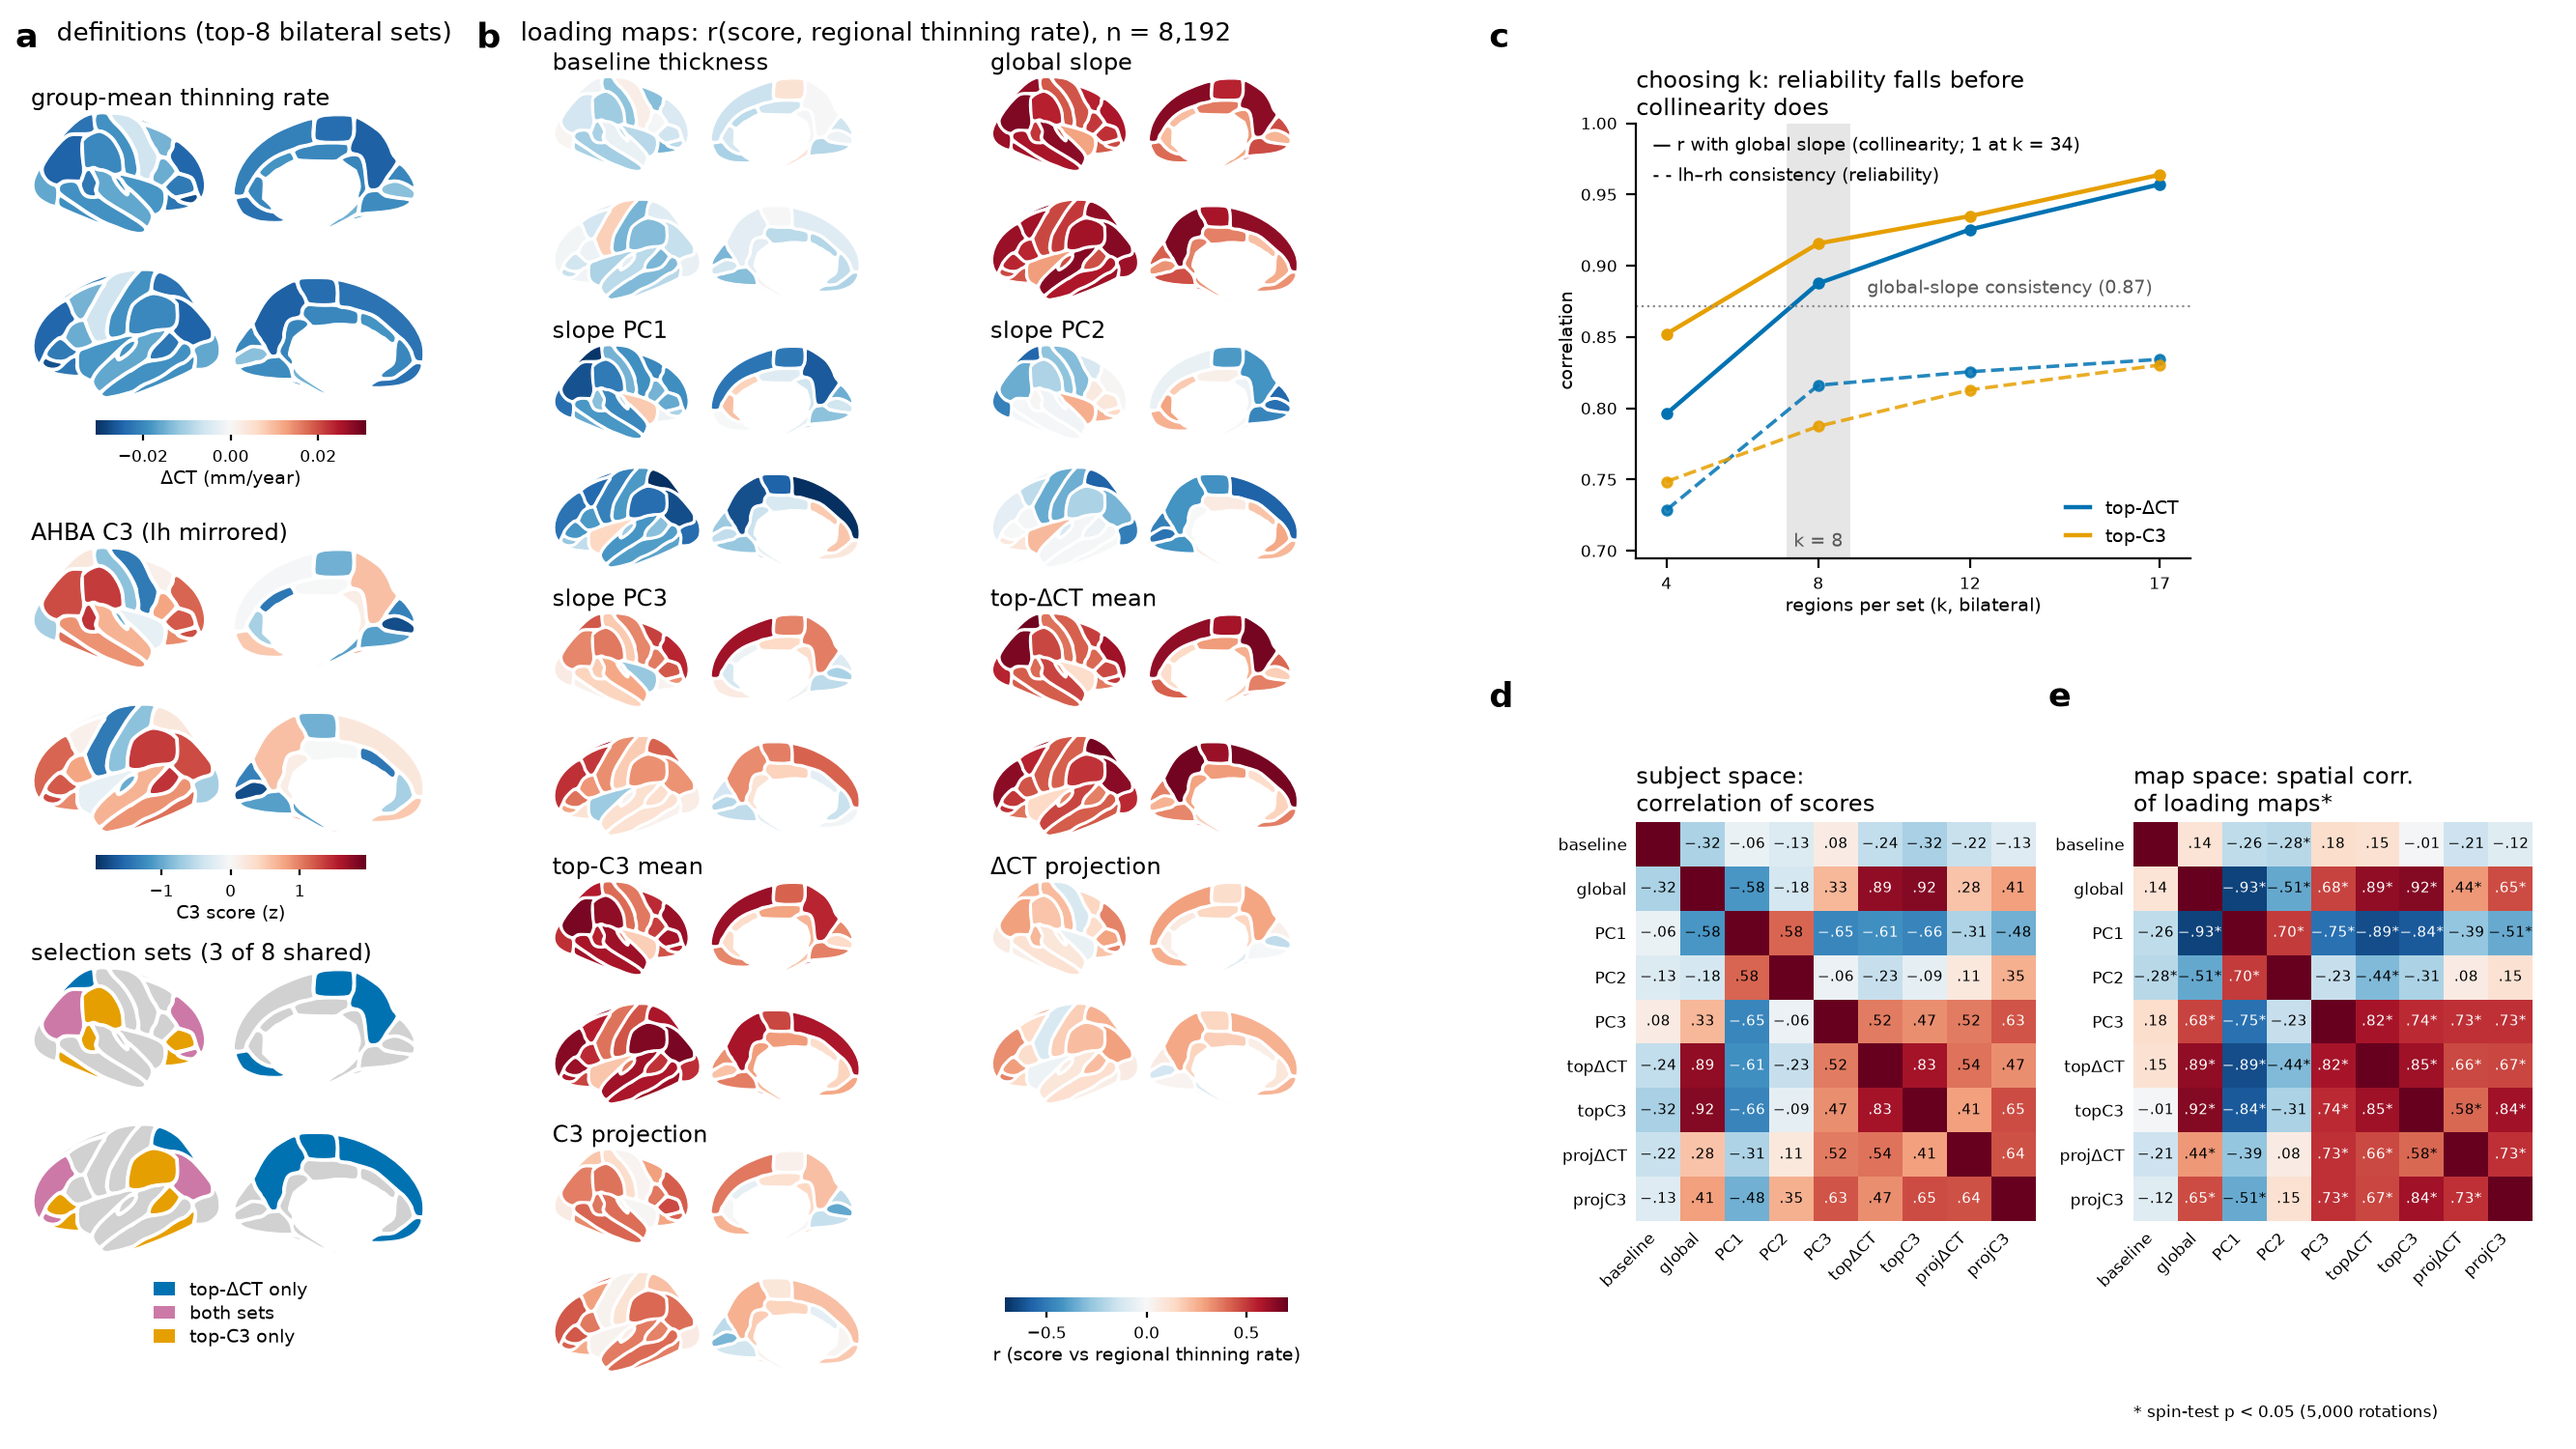
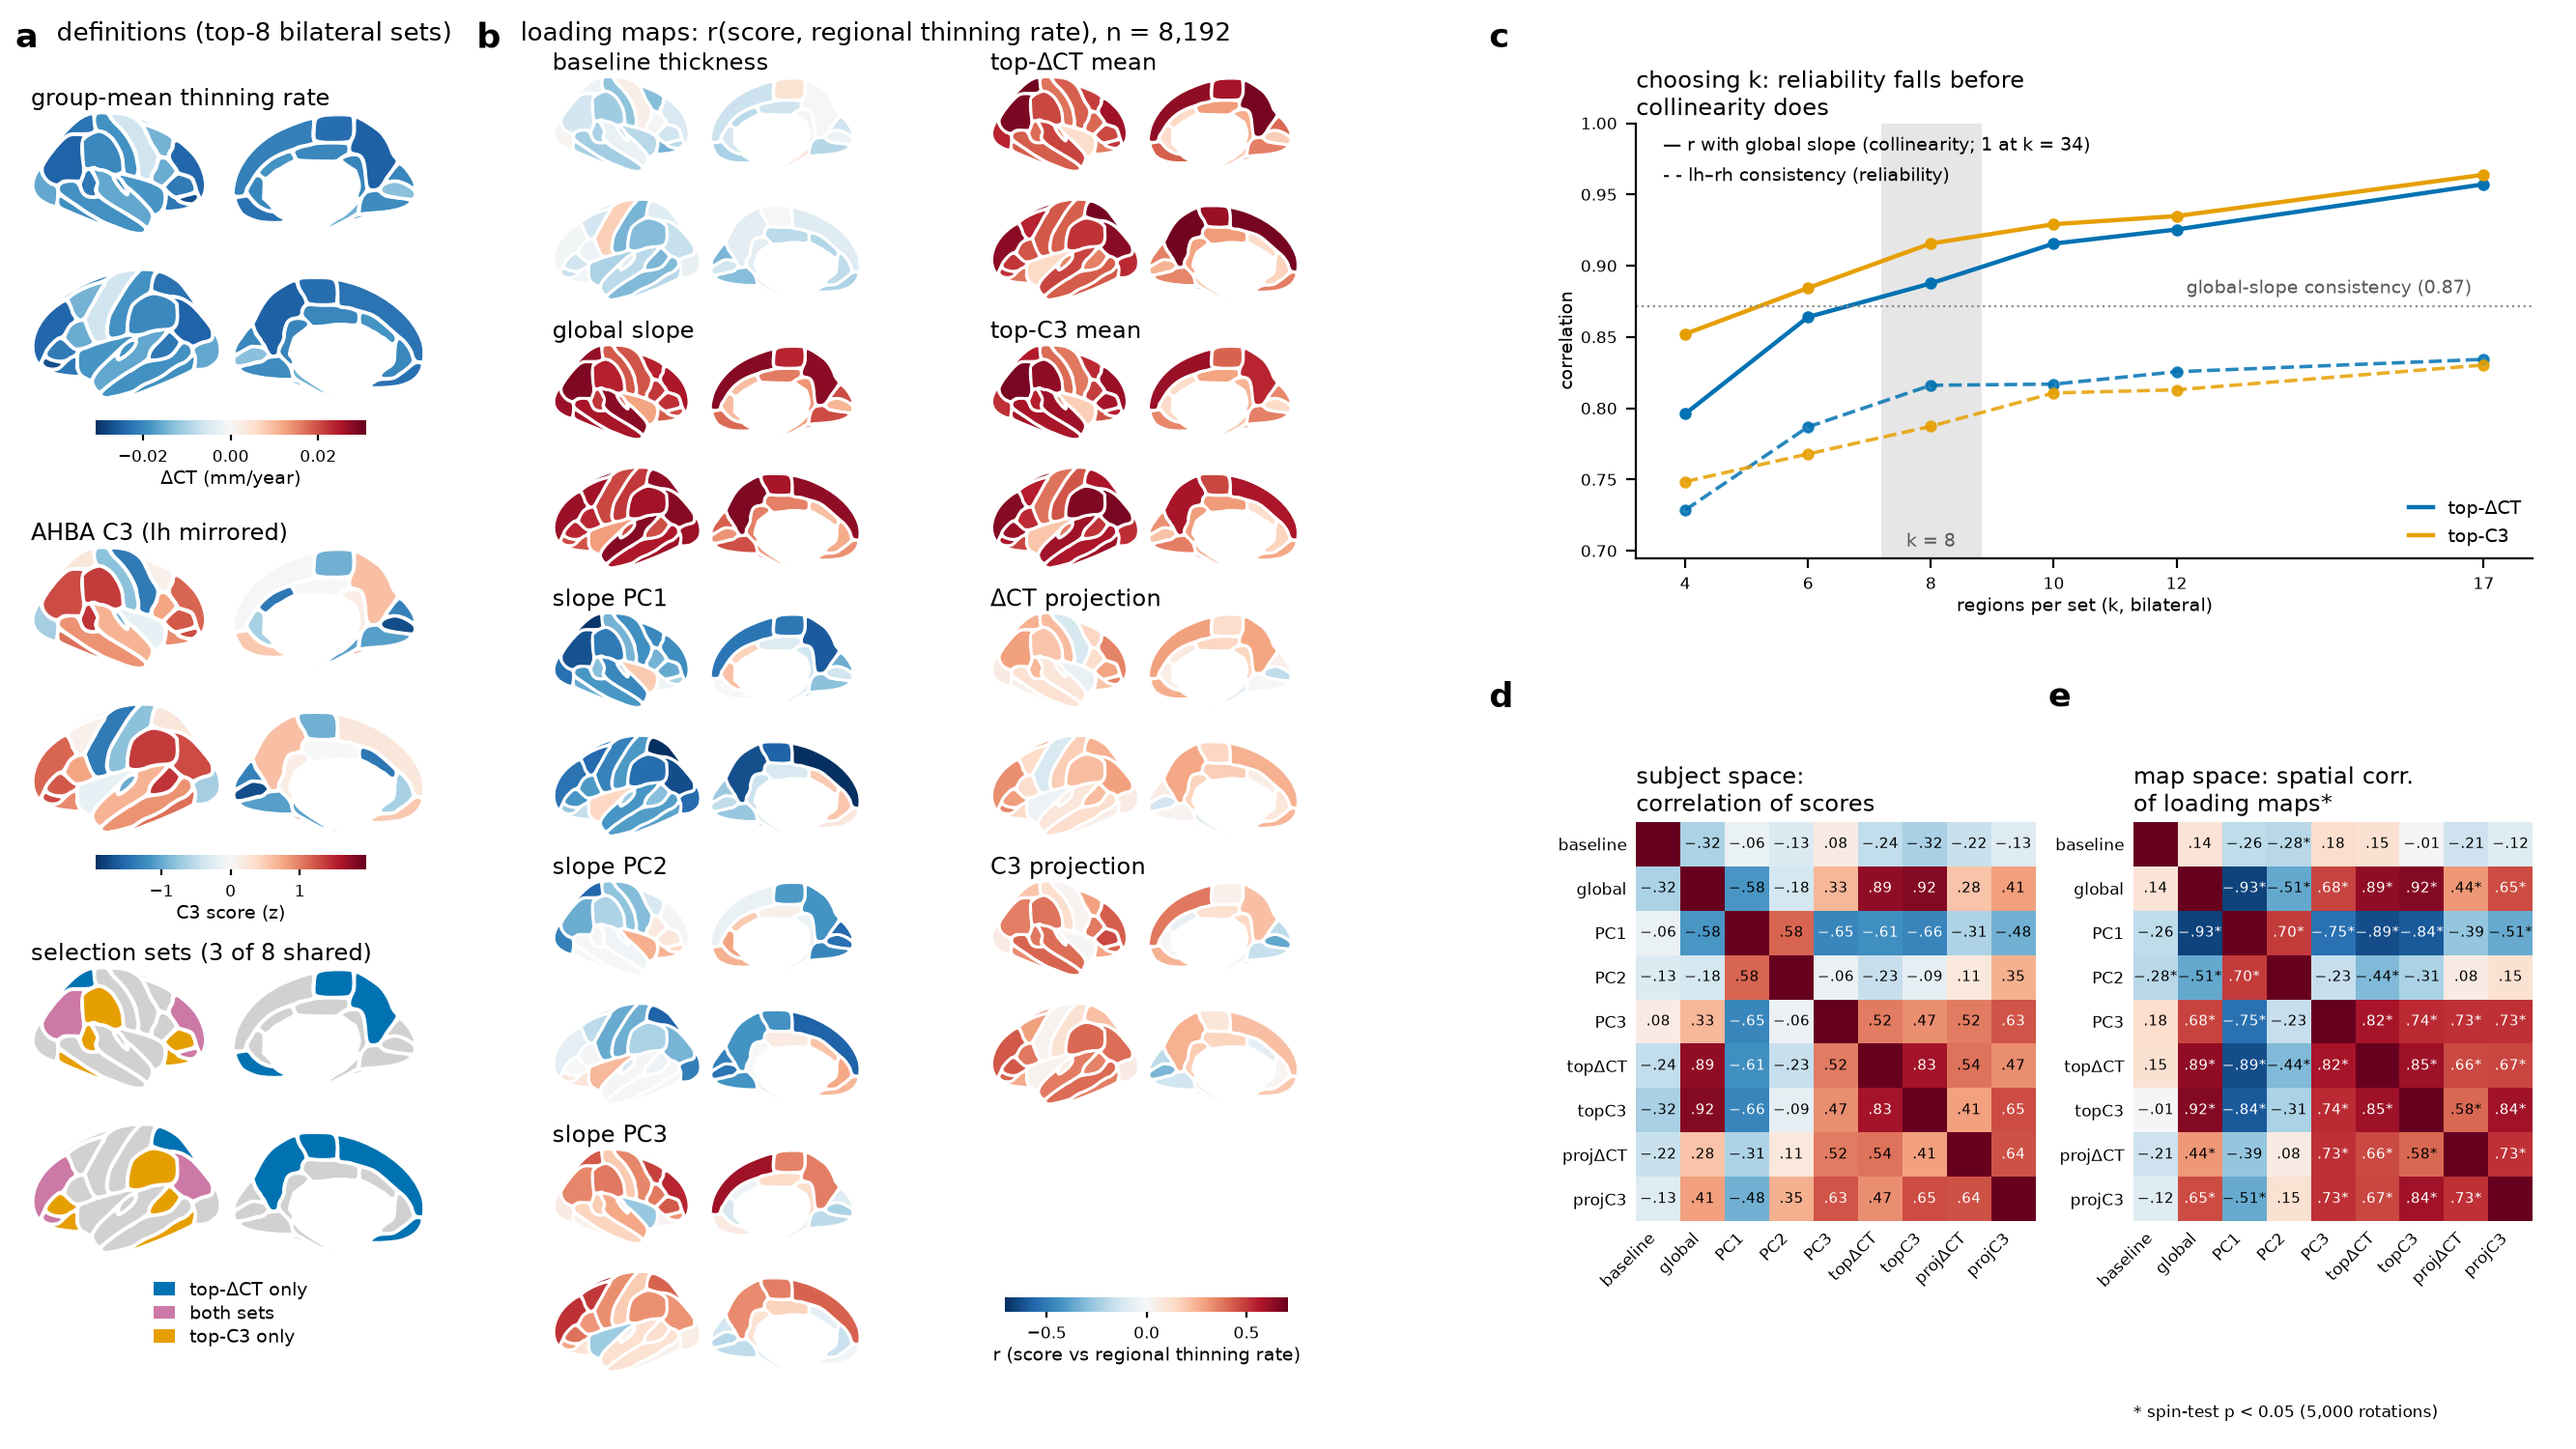
hpc_v3: panel b column-wise (settled five left, new four right); k=6,10 added
The k-sensitivity grid gains 6 and 10 (K_SENSITIVITY in make_phenotypes_v3.py,
consistency CSV regenerated) and panel c widens to the right block's full
width. The new points confirm the elbow reading: consistency gains flatten
after k=8 (topDelta 0.816 -> 0.817 from 8 to 10) while collinearity keeps
climbing (0.888 -> 0.916).

diff --git a/hpc_v3/figure_v3.py b/hpc_v3/figure_v3.py
@@ -208,9 +208,11 @@ def draw() -> Path:
              "n = 8,192", fontsize=BASE)
     X0, PITCH_X, PITCH_Y = 0.195, 0.170, 0.185
     BW, BH = 0.160, 0.158                       # map slot; title uses the rest
+    # column-wise: settled five down the left column, the four new on the right
     mappable = None
     for k, ph in enumerate(PHENOS):
-        rect = [X0 + (k % 2) * PITCH_X, 0.790 - (k // 2) * PITCH_Y, BW, BH]
+        col, row = k // 5, k % 5
+        rect = [X0 + col * PITCH_X, 0.790 - row * PITCH_Y, BW, BH]
         _, mappable = brain(rect, load[ph], DISPLAY[ph], diverging=True,
                             center=0.0, vminmax=(-lim, lim))
     # shared colorbar in the empty 10th slot
@@ -218,7 +220,7 @@ def draw() -> Path:
           mappable, "r (score vs regional thinning rate)")
 
     # --- panel c: k-sensitivity ------------------------------------------------
-    axk = fig.add_axes([0.635, 0.615, 0.215, 0.30])
+    axk = fig.add_axes([0.635, 0.615, 0.348, 0.30])
     _panel_letter(fig, 0.578, 0.985, "c")
     axk.set_title("choosing k: reliability falls before\ncollinearity does",
                   fontsize=MID, pad=3)
@@ -245,7 +247,7 @@ def draw() -> Path:
     axk.set_xlabel("regions per set (k, bilateral)", fontsize=SMALL,
                    labelpad=1.5)
     axk.set_ylabel("correlation", fontsize=SMALL, labelpad=1.5)
-    axk.set_xticks([4, 8, 12, 17])
+    axk.set_xticks([4, 6, 8, 10, 12, 17])
     axk.tick_params(labelsize=SMALL - 1)
     axk.spines[["top", "right"]].set_visible(False)
     leg = [mpl.lines.Line2D([], [], color=kcol["topDelta"], lw=1.6,

diff --git a/hpc_v3/make_phenotypes_v3.py b/hpc_v3/make_phenotypes_v3.py
@@ -55,7 +55,7 @@ sys.path.insert(0, str(REPO / "src"))
 from abcd import gcta_export  # noqa: E402
 
 K_BILATERAL = 8          # top-k bilateral base regions per subset (=16 labels)
-K_SENSITIVITY = (4, 8, 12, 17)
+K_SENSITIVITY = (4, 6, 8, 10, 12, 17)
 
 #: manifest rows for the new columns; priorities continue the settled 0-4.
 NEW_PHENOTYPES = (
